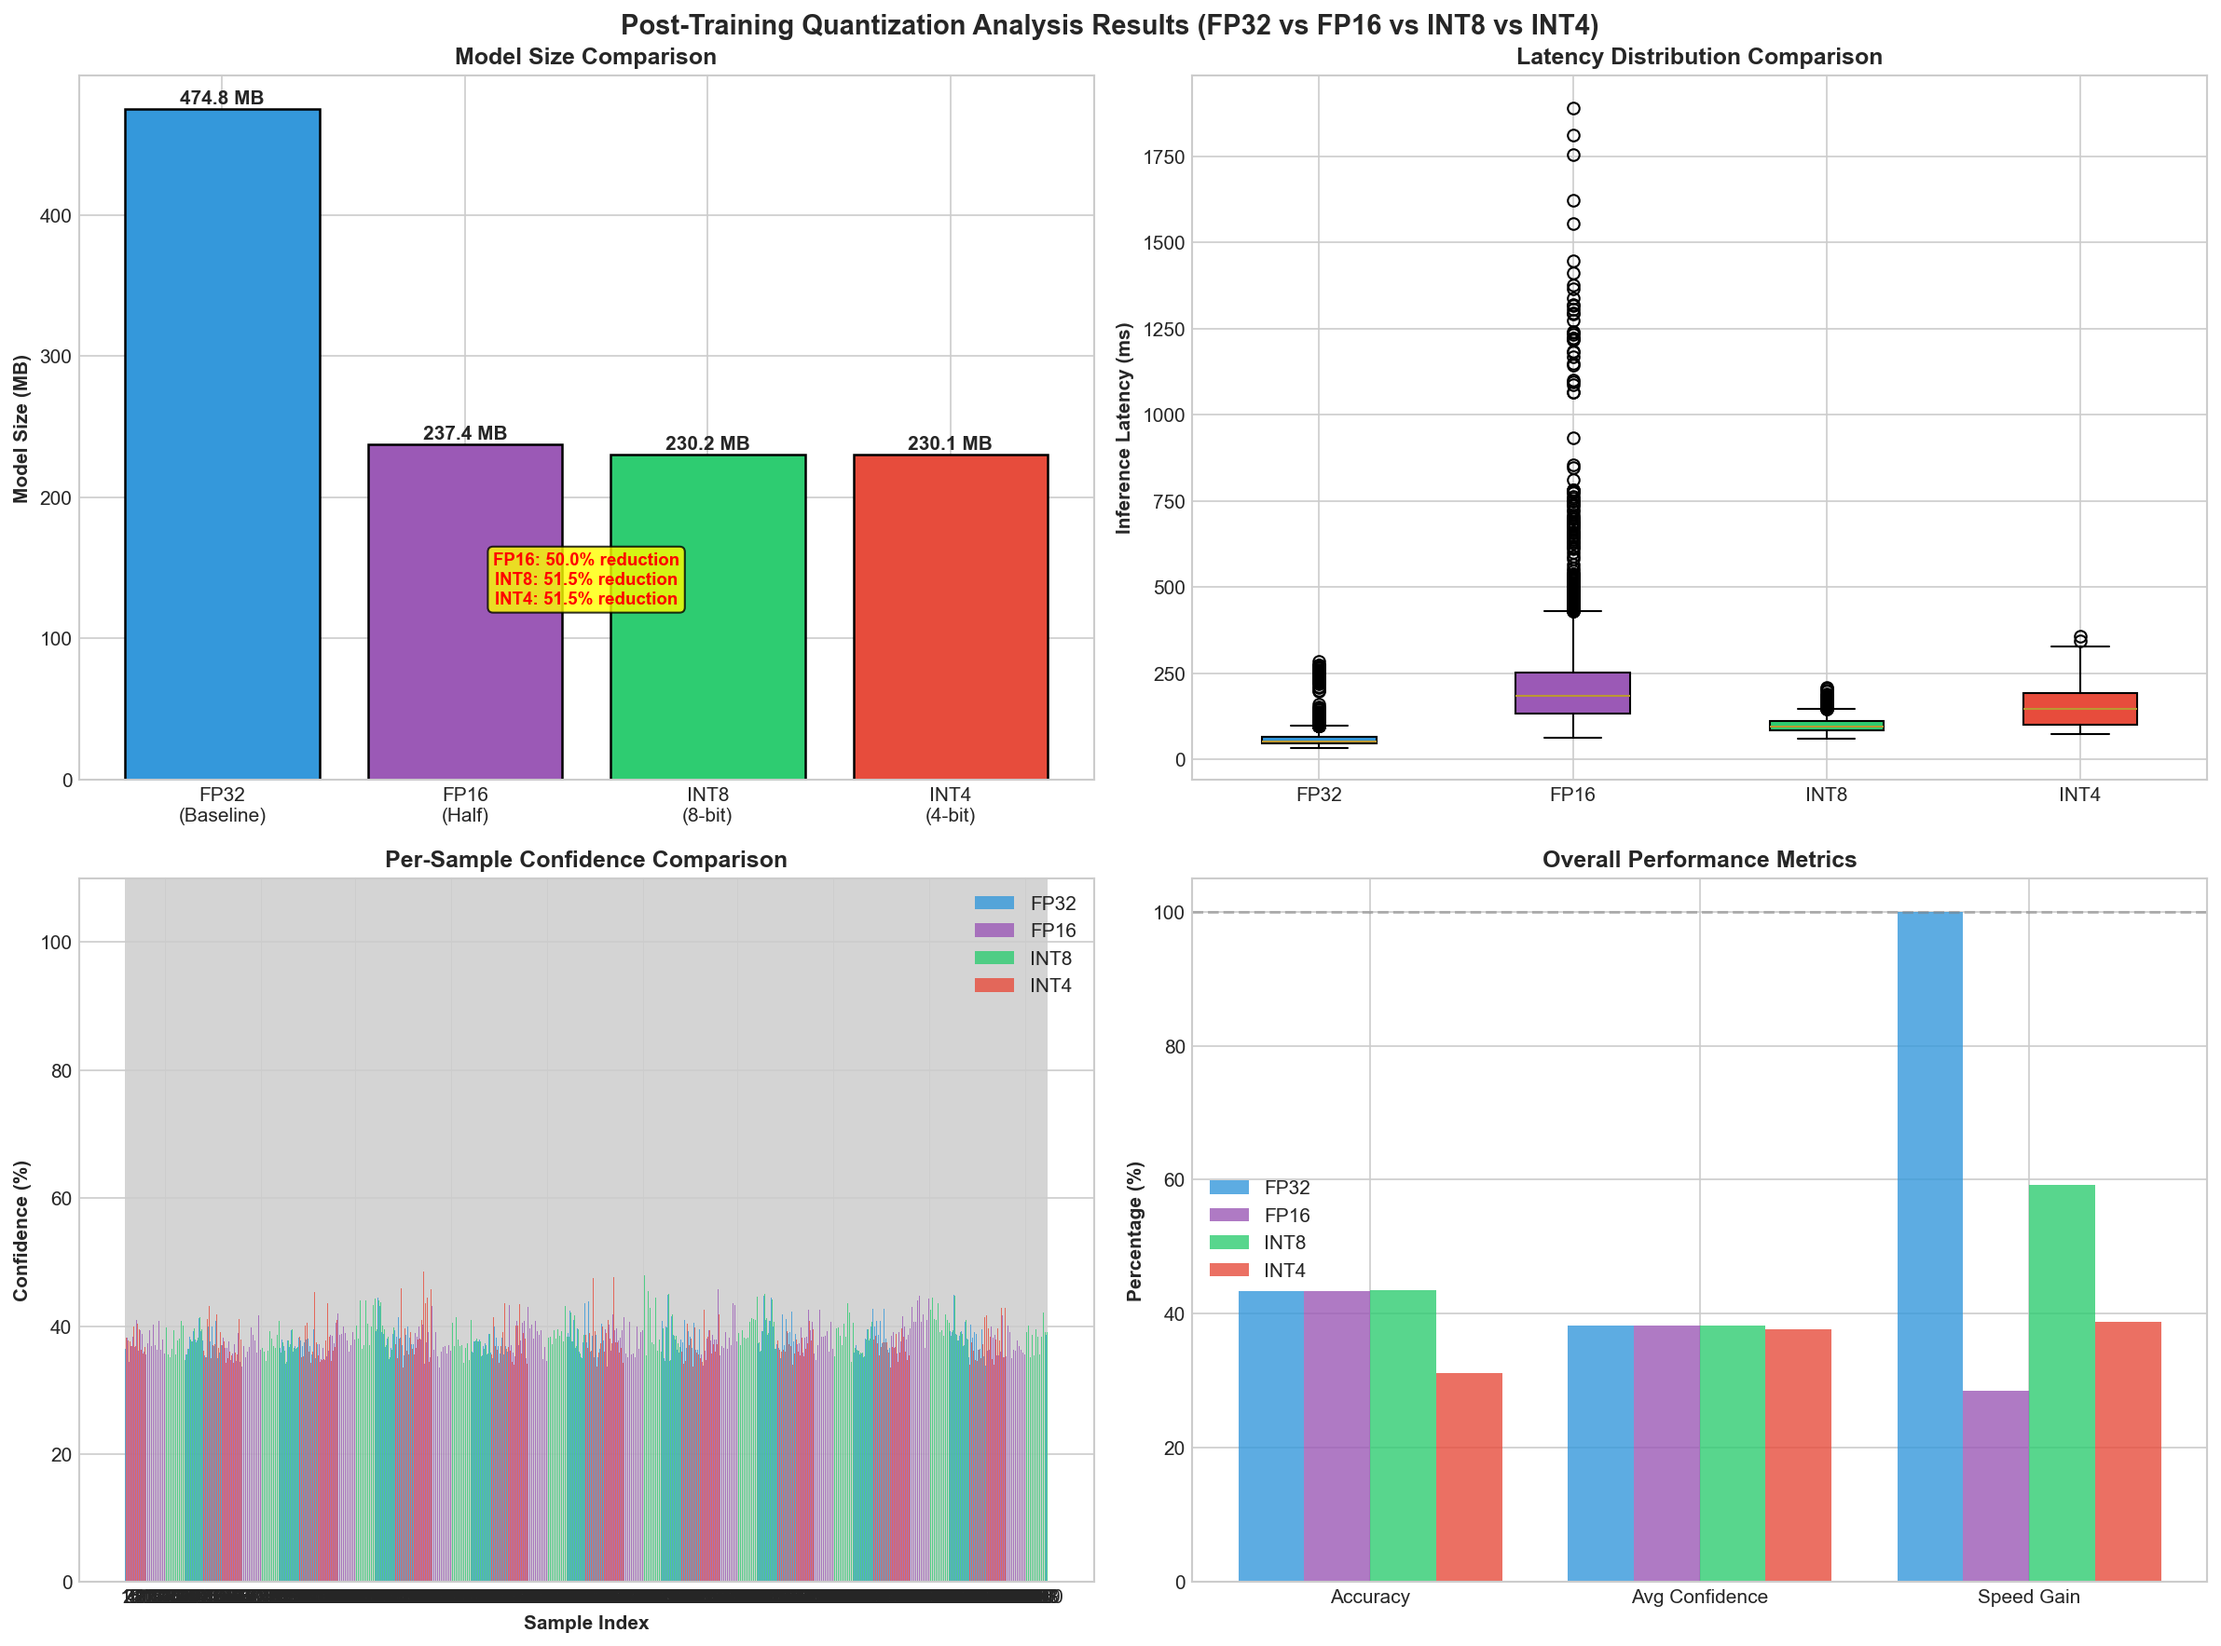
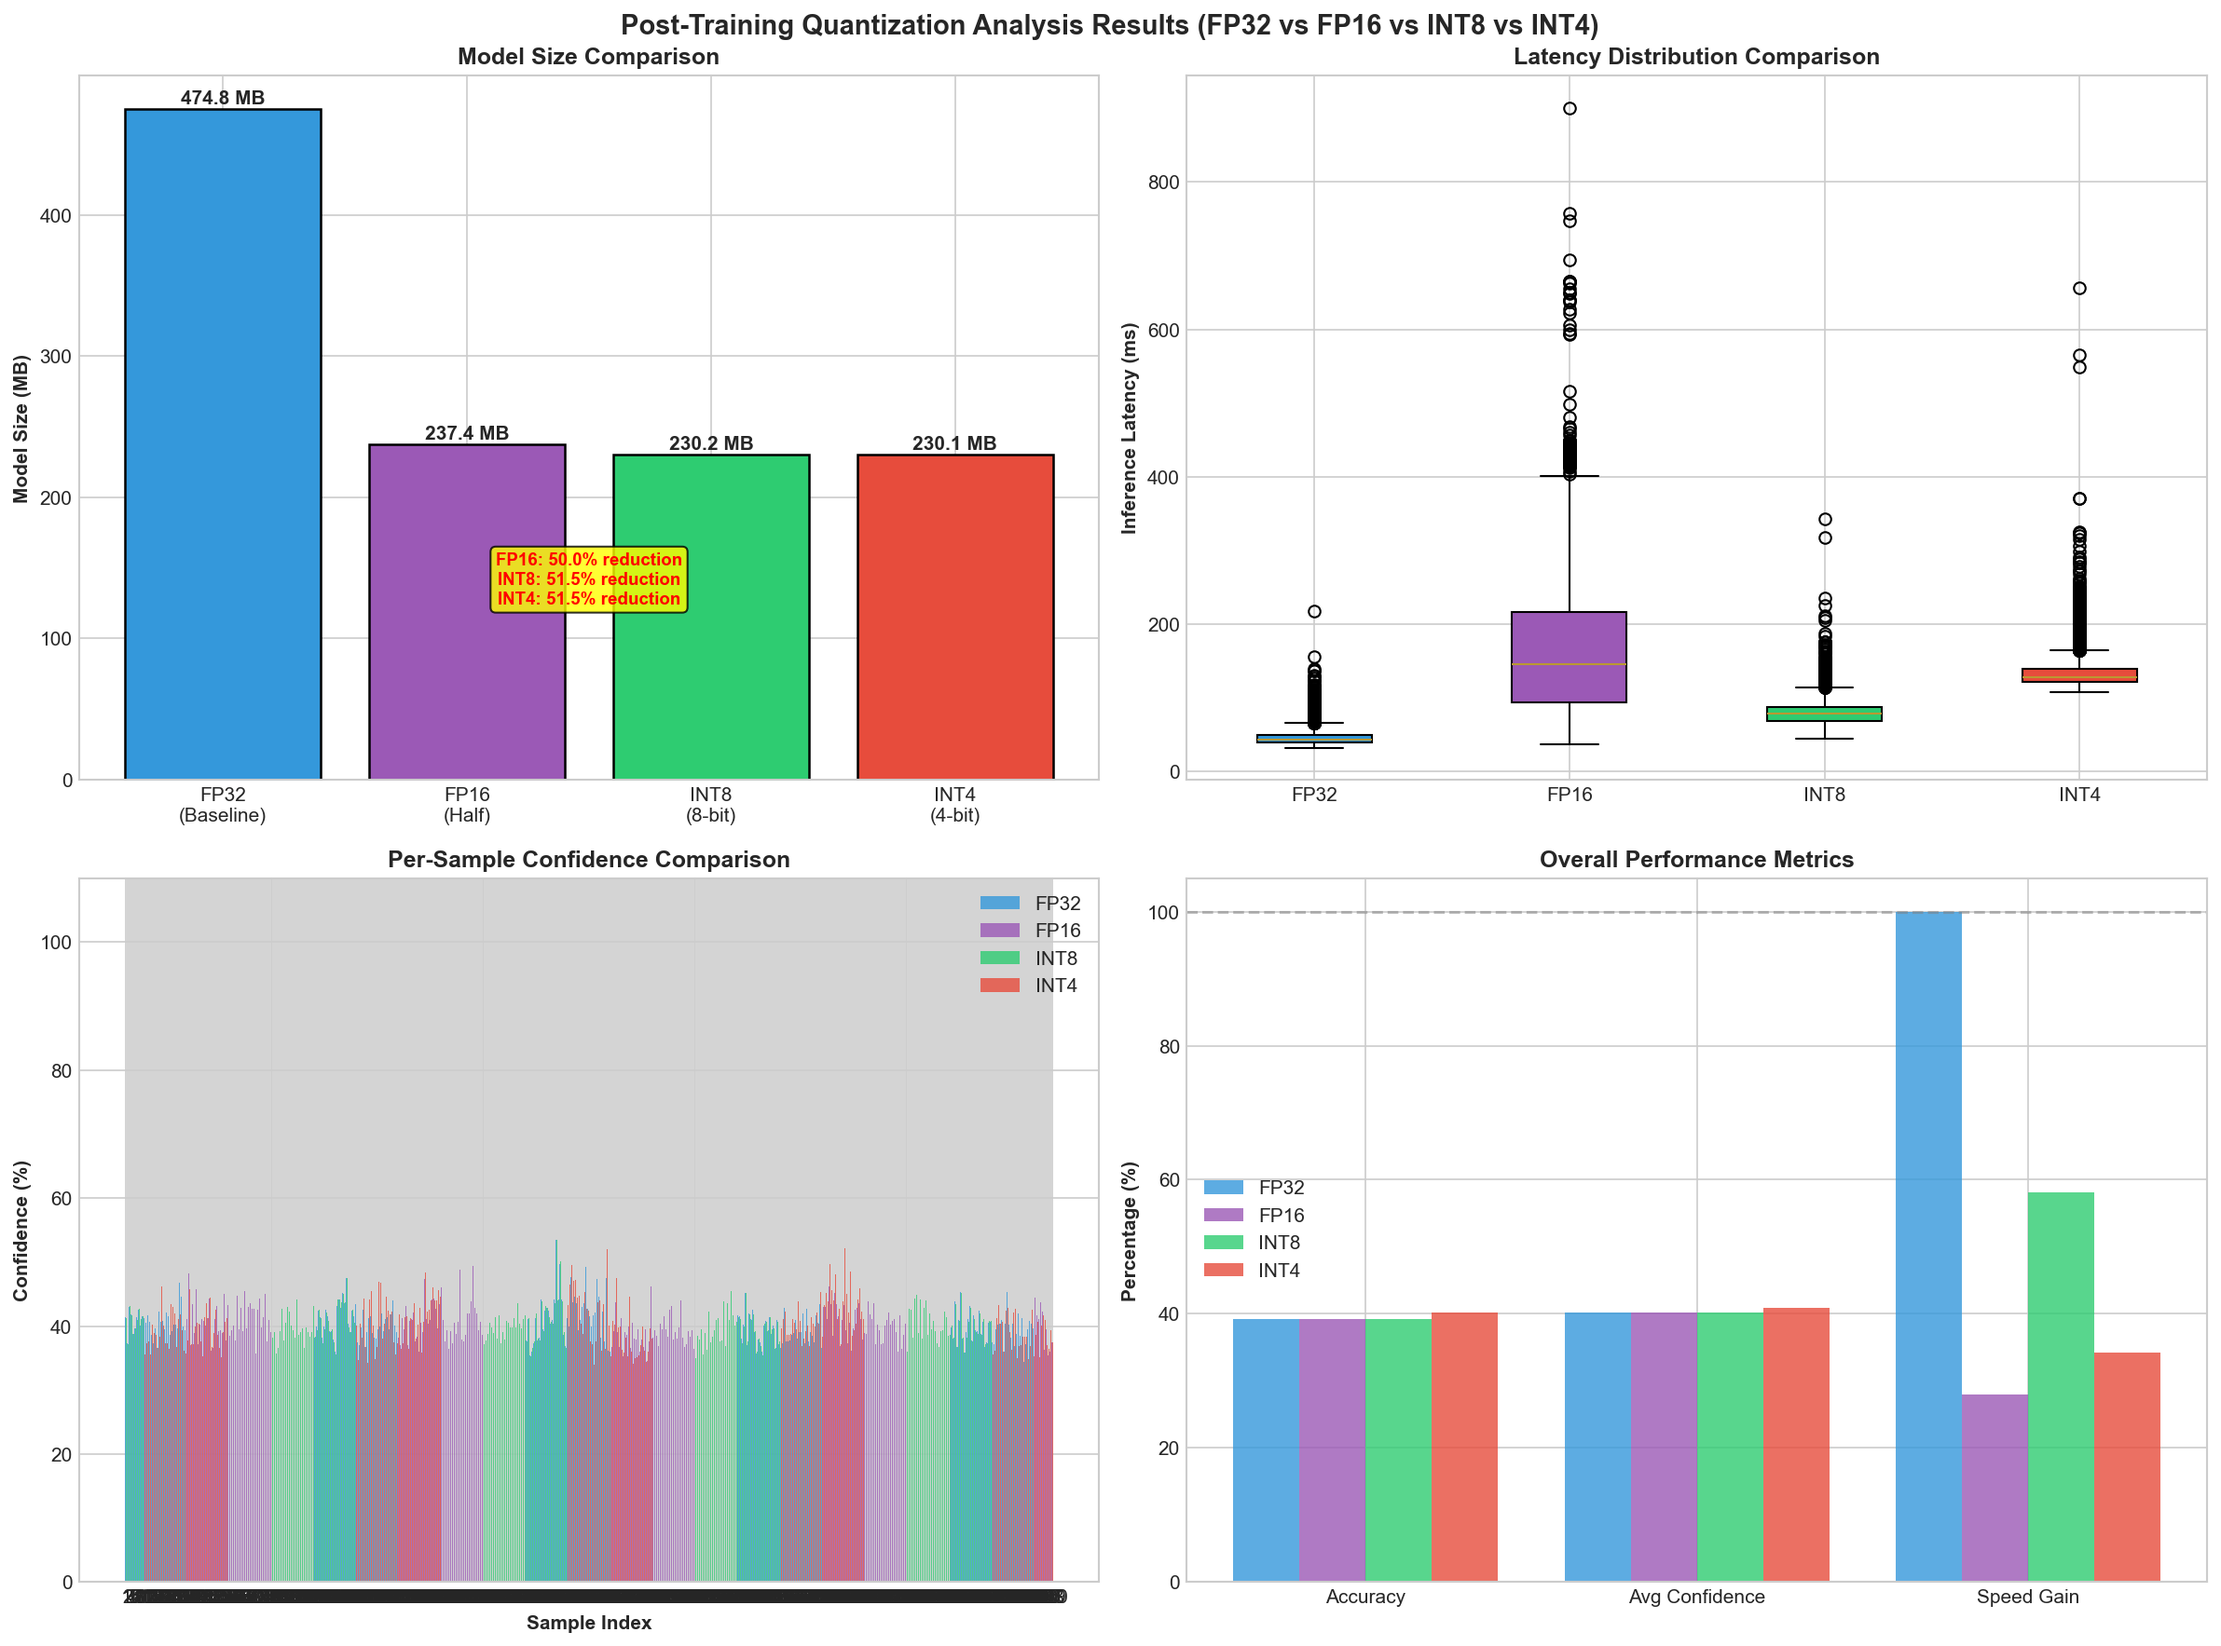
feat: original test tsv

diff --git a/notes/quantization-ptq.md b/notes/quantization-ptq.md
@@ -33,7 +33,7 @@ Kesimpulan :
 * FP16 -> ukuran lebih kecil, akurasi sama, latency lebih lama
 * INT8 -> ukuran lebih kecil (kurang dikit dari ukuran FP16), akurasi sedikit turun, latency lebih cepat
 
-## Ganti model ke indobert base (standard) + INT4
+## Ganti model ke indobert base (standard) + INT4 (Tweets Dataset)
 788 Sample (1/30 dari datasets)
 dengan config
 
@@ -59,6 +59,7 @@ Kesimpulan :
 * inference = 20 
 * warmup = 5
 * sample total = 500 
+* model = indobert finetuned
 
 ![alt text](../quantization-ptq/src/standard-quantization/images/finetuned-test-tsv-dataset.png)
 
@@ -69,11 +70,11 @@ Kesimpulan :
 
 | kenapa int8 bisa lebih tinggi daripada fp32, fp16 sedangkan int4 lebih rendah daripada int8 ?
 
-
 ## Finetuned Model + Tweet datasets
 * inference = 2
 * warmup = 5
 * sample total = 1182 (1 banding 20)
+* model = indobert finetuned
 
 ![alt text](../quantization-ptq/src/standard-quantization/images/finetuned-tweet.png)
 
@@ -81,3 +82,19 @@ Kesimpulan :
 * fp32, fp16, int8 masih konsisten dengan alur selama eksperimen (kecuali finetuned yang sebelumya dengan datatset test.tsv)
 
 | kenapa int4 bisa lebih tinggi accuracynya dibandingkan yang lain?
+
+## Original + test.tsv datasets
+* inference = 20
+* warmup = 5
+* sample total = 500
+* model = indobert original base p2
+
+![alt text](../quantization-ptq/src/standard-quantization/images/original-test-tsv.png)
+
+* int8 somehow bisa lebih tinggi daripada fp32 dan fp16
+* int4 turun lumayan banyak 
+
+# Checkpoint 2
+
+* kesimpulan sementara, apakah karna dataset test.tsv makanya int8 bisa lebih tinggi daripada fp32 dan fp16? karna pada saat pakai test.tsv si int8 selalu diatas fp32 dan fp16
+* 
